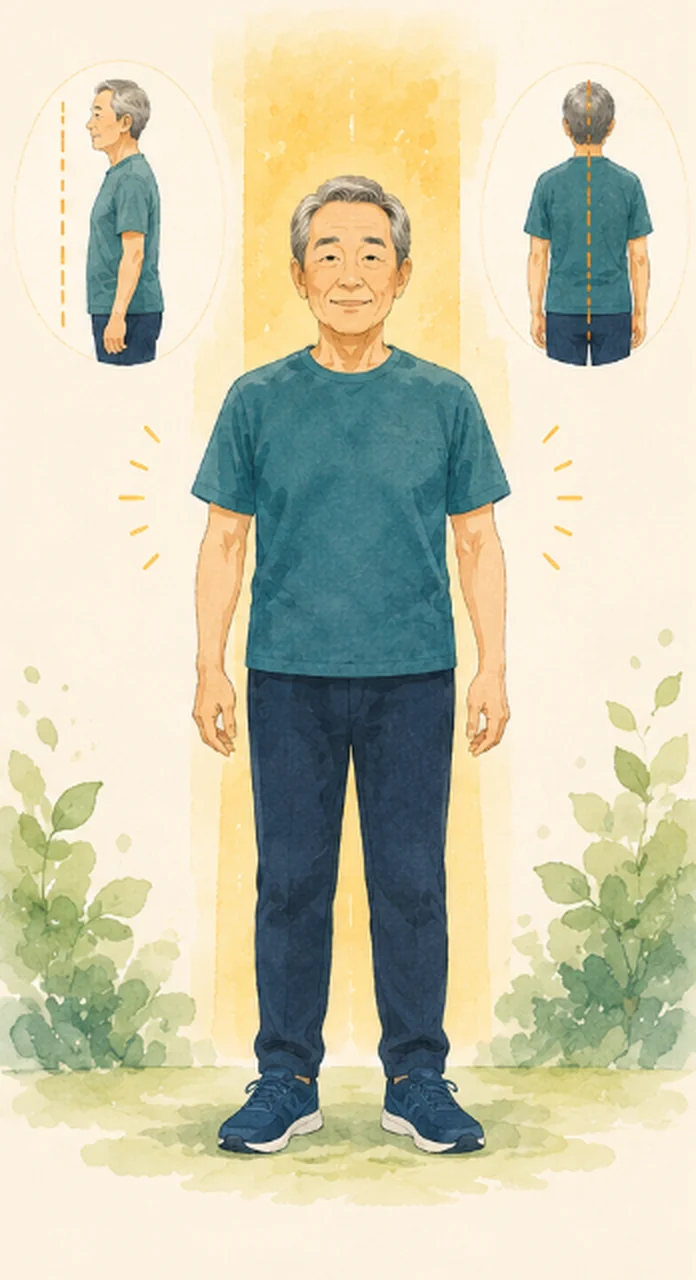
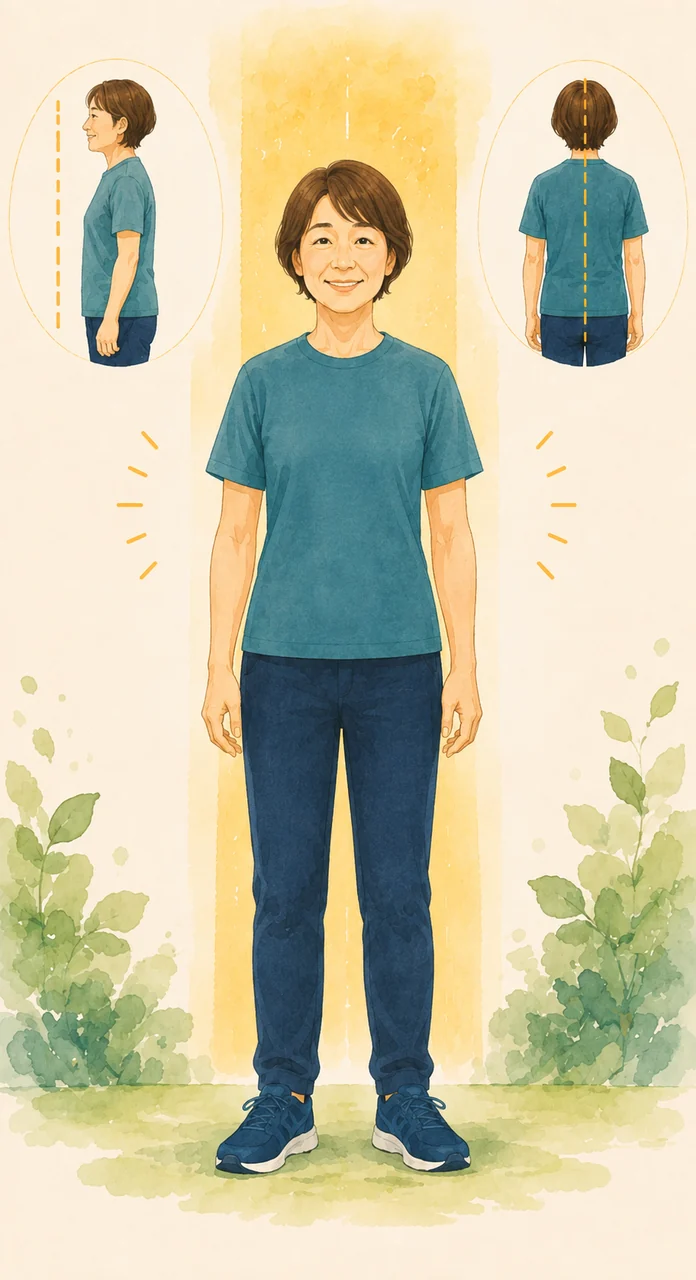
02姿勢・03運動のイラストを、山口様ご提供のものに差し替え
- images/future-shisei.webp … 女性直立.png より
- images/future-undou.webp  … だんせい　運動.png より

いずれも 924x1700 の原画を、既存の 348:640 比率に合わせて中央でトリミングし、
Retina用に 696x1280 の WebP で書き出した（79KB / 99KB）。
歩きの図版と並べて、絵柄・余白・人物の大きさが揃うことを確認済み。

alt（画像の説明文）も新しい絵の内容に合わせて書き換え。
- 姿勢：男性→女性、横と後ろから見た体の軸の通り方
- 運動：椅子スクワットと、オレンジのポロシャツのトレーナーが寄り添う様子

diff --git a/index.html b/index.html
@@ -1761,7 +1761,7 @@ table{ max-width:100%; }
           </li>
           <li class="wf-step is-rev">
             <div class="wf-fig">
-              <img src="images/future-shisei.webp" alt="背すじがまっすぐ伸びた状態で堂々と立つ男性と、横から・後ろから見た姿勢の変化を示すイラスト" width="348" height="640" loading="lazy" decoding="async">
+              <img src="images/future-shisei.webp" alt="背すじがまっすぐ伸びた状態で立つ女性と、横から・後ろから見た体の軸の通り方を示すイラスト" width="348" height="640" loading="lazy" decoding="async">
                 <span class="wf-badge" aria-hidden="true"><span data-en="Posture">姿勢</span></span>
             </div>
             <div class="wf-body">
@@ -1778,7 +1778,7 @@ table{ max-width:100%; }
           </li>
           <li class="wf-step">
             <div class="wf-fig">
-              <img src="images/future-undou.webp" alt="オレンジのポロシャツを着たアスパスのトレーナーが寄り添いながら、椅子スクワットやダンベル、ストレッチに取り組む方々のイラスト" width="348" height="640" loading="lazy" decoding="async">
+              <img src="images/future-undou.webp" alt="椅子スクワットに取り組む男性と、オレンジのポロシャツを着たアスパスのトレーナーが寄り添いながら歩行練習・体操・ストレッチを行う様子のイラスト" width="348" height="640" loading="lazy" decoding="async">
                 <span class="wf-badge" aria-hidden="true"><span data-en="Exercise">運動</span></span>
             </div>
             <div class="wf-body">
